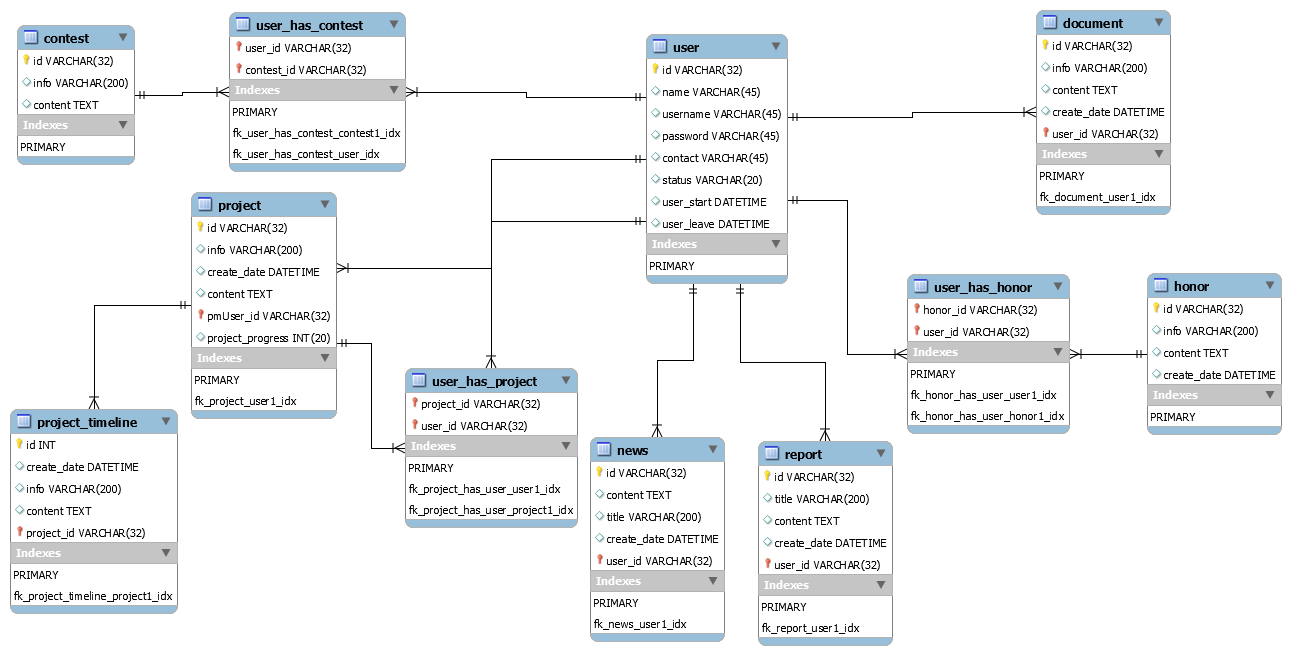
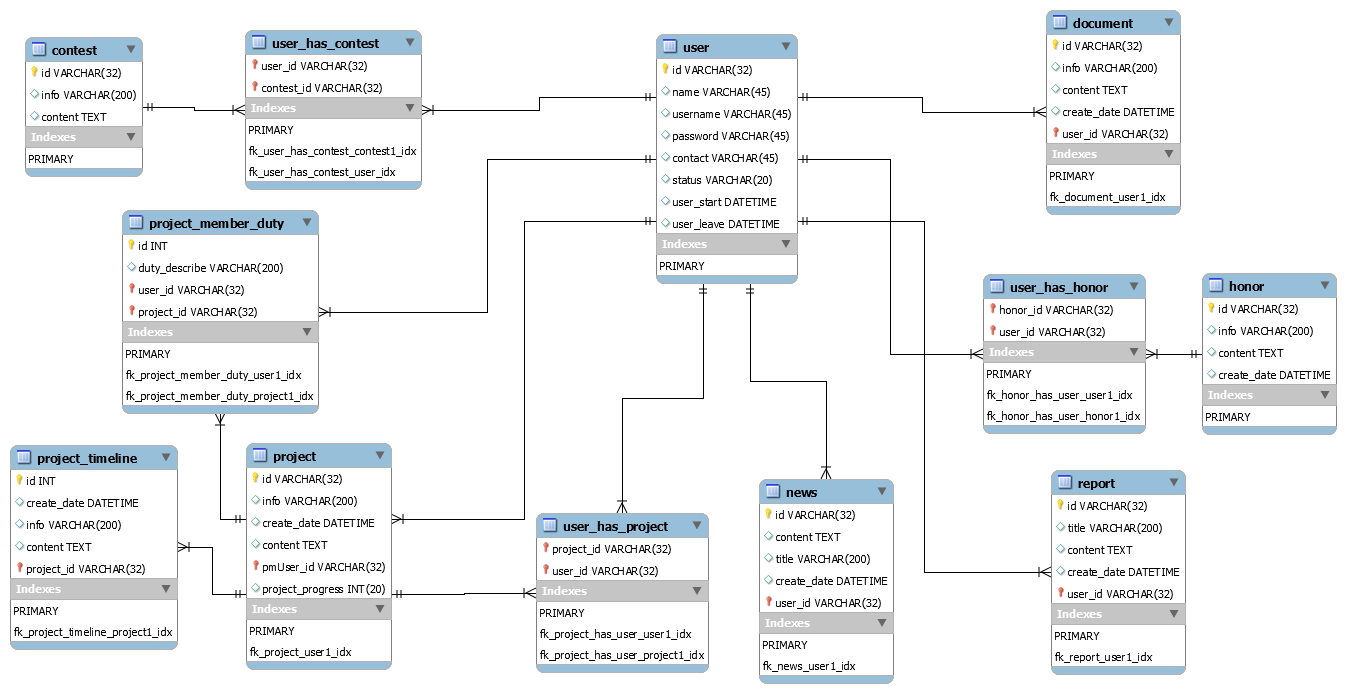
1.增加实体：项目成员责任类。2.初始化数据设计。3.发现fastjson对map的不足。

diff --git a/test/org/mrhu/smartlab/util/HibernateUtilTest.java b/test/org/mrhu/smartlab/util/HibernateUtilTest.java
@@ -4,10 +4,7 @@ import org.hibernate.Query;
 import org.hibernate.Session;
 import org.hibernate.SessionFactory;
 import org.junit.Test;
-import org.junit.Before; 
-import org.junit.After;
 import org.mrhu.smartlab.model.*;
-import org.mrhu.smartlab.util.HibernateUtil;
 
 import java.util.Date;
 import java.util.HashSet;
@@ -65,19 +62,19 @@ public class HibernateUtilTest {
         session.beginTransaction();
 
         User user = new User();
-        user.setName("小明");
+        user.setName("lisi");
         user.setContact("23");
         user.setStatus(Status.ADMINISTRATOR);
-        user.setUsername("xiaoming");
+        user.setUsername("lisi");
         user.setPassword("123");
         user.setStart(new Date());
         session.save(user);
 
         User user2 = new User();
-        user2.setName("lisi");
+        user2.setName("小明");
         user2.setContact("47823974912");
         user2.setStatus(Status.USER);
-        user2.setUsername("lisi");
+        user2.setUsername("xiaoming");
         user2.setPassword("123");
         user2.setStart(new Date());
         session.save(user2);
@@ -107,6 +104,23 @@ public class HibernateUtilTest {
         project.setProgress(20);
         session.save(project);
 
+        Project project2 = new Project();
+        project2.setContent("这是一个新项目，开发实验室综合管理平台的项目的扩展");
+        project2.setInfo("这是一个新项目");
+        project2.setCreateDate(new Date());
+        Query query2 = session.createQuery("from User user where user.username = 'zhangsan'");
+        List<User> userList2 = query2.list();
+        User user3 = userList2.get(0);
+        System.out.println(user3.getId());
+        project2.setPmUser(user);
+        users.add(user3);
+        project2.setUsers(users);
+        project2.setProgress(20);
+        session.save(project2);
+
+        session.getTransaction().commit();
+        session.beginTransaction();
+
         News news = new News();
         news.setContent("这是一个新闻，关于最新项目进展的新闻");
         news.setCreateDate(new Date());
@@ -121,6 +135,7 @@ public class HibernateUtilTest {
         report.setUser(user2);
         session.save(report);
 
+
         Honor honor = new Honor();
         honor.setContent("这是一个荣誉，全部人的荣誉");
         honor.setCreateDate(new Date());
@@ -134,6 +149,53 @@ public class HibernateUtilTest {
         document.setInfo("文档");
         document.setUser(user);
         session.save(document);
+
+        ProjectTimeline projectTimeline = new ProjectTimeline();
+        projectTimeline.setInfo("begin");
+        projectTimeline.setContent("开始了工程，就不要轻易停下来");
+        projectTimeline.setCreateDate(new Date());
+        project = (Project) session.createQuery("from Project p where p.id = :pid")
+                .setParameter("pid", project.getId())
+                .list()
+                .get(0);
+        System.out.println(project.getId());
+        System.out.println(project2.getId());
+        projectTimeline.setProject(project);
+        session.save(projectTimeline);
+
+        ProjectTimeline projectTimeline2 = new ProjectTimeline();
+        projectTimeline2.setInfo("begin");
+        projectTimeline2.setContent("开始了工程，就不要轻易停下来");
+        projectTimeline2.setCreateDate(new Date());
+        project2 = session.get(Project.class, project2.getId());
+        projectTimeline2.setProject(project2);
+        session.save(projectTimeline2);
+
+        ProjectTimeline projectTimeline1 = new ProjectTimeline();
+        projectTimeline1.setProject(project);
+        projectTimeline1.setCreateDate(new Date());
+        projectTimeline1.setContent("工程结束，下次再会");
+        projectTimeline1.setInfo("end");
+        session.save(projectTimeline1);
+
+        ProjectTimeline projectTimeline3 = new ProjectTimeline();
+        projectTimeline3.setProject(project2);
+        projectTimeline3.setCreateDate(new Date());
+        projectTimeline3.setContent("工程结束，下次再会");
+        projectTimeline3.setInfo("end");
+        session.save(projectTimeline3);
+
+        ProjectMemberDuty projectMemberDuty = new ProjectMemberDuty();
+        projectMemberDuty.setDescribe("项目经理");
+        projectMemberDuty.setUser(user);
+        projectMemberDuty.setProject(project);
+        session.save(projectMemberDuty);
+
+        ProjectMemberDuty projectMemberDuty1 = new ProjectMemberDuty();
+        projectMemberDuty1.setProject(project);
+        projectMemberDuty1.setUser(user2);
+        projectMemberDuty1.setDescribe("开发");
+        session.save(projectMemberDuty1);
 
         session.getTransaction().commit();
         session.close();

diff --git a/src/org/mrhu/smartlab/dao/impl/ProjectMemberDaoImpl.java b/src/org/mrhu/smartlab/dao/impl/ProjectMemberDaoImpl.java
@@ -1,0 +1,49 @@
+package org.mrhu.smartlab.dao.impl;
+
+import org.mrhu.smartlab.dao.ProjectMemberDao;
+import org.mrhu.smartlab.model.Project;
+import org.mrhu.smartlab.model.ProjectMemberDuty;
+import org.mrhu.smartlab.model.User;
+import org.springframework.orm.hibernate5.HibernateTemplate;
+import org.springframework.stereotype.Component;
+
+import javax.annotation.Resource;
+import java.util.HashMap;
+import java.util.List;
+import java.util.Map;
+import java.util.Set;
+
+@Component("projectMemberDao")
+public class ProjectMemberDaoImpl implements ProjectMemberDao {
+
+    private HibernateTemplate hibernateTemplate;
+
+    public HibernateTemplate getHibernateTemplate() {
+        return hibernateTemplate;
+    }
+
+    @Resource
+    public void setHibernateTemplate(HibernateTemplate hibernateTemplate) {
+        this.hibernateTemplate = hibernateTemplate;
+    }
+
+    @Override
+    public Map<User, ProjectMemberDuty> getAllMemberAndDuty(Project project) {
+        Project loadProject = hibernateTemplate.get(Project.class, project.getId());
+        List<ProjectMemberDuty> projectMemberDuties = (List<ProjectMemberDuty>) hibernateTemplate
+                .find("from ProjectMemberDuty p where p.project = ?", project);
+        Set<User> users = loadProject.getUsers();
+        Map<User, ProjectMemberDuty> map = new HashMap<>();
+        for(User user : users) {
+            ProjectMemberDuty duty = new ProjectMemberDuty();
+            for(int iterator = 0;iterator < projectMemberDuties.size();iterator++) {
+                if(projectMemberDuties.get(iterator).getUser().getId().equals(user.getId())) {
+                    duty = projectMemberDuties.get(iterator);
+                    break;
+                }
+            }
+            map.put(user, duty);
+        }
+        return map;
+    }
+}

diff --git a/src/org/mrhu/smartlab/action/PullProjectAction.java b/src/org/mrhu/smartlab/action/PullProjectAction.java
@@ -29,18 +29,26 @@ public class PullProjectAction extends ActionSupport implements RequestAware, Se
             Project project = new Project();
             project.setId(projectId);
             Project loadProject = projectService.get(project);
+
+            //页面头部信息栏
             request.put("projectInfo", loadProject.getInfo());
             request.put("projectId", loadProject.getId());
             request.put("projectContent", loadProject.getContent());
+
+            //时间轴信息栏
             request.put("timelines", projectTimeLineService.getAll(project));
             request.put("projectCreateDate", loadProject.getCreateDate());
+
+            //底部成员信息栏
             request.put("members", loadProject.getUsers());
+            request.put("", loadProject);
             if(session.get("status") == Status.ADMINISTRATOR) {
                 return "admin_success";
             } else {
                 return "user_success";
             }
         } catch (Exception e) {
+            e.printStackTrace();
             return ERROR;
         }
     }

diff --git a/src/org/mrhu/smartlab/model/ProjectMemberDuty.java b/src/org/mrhu/smartlab/model/ProjectMemberDuty.java
@@ -1,0 +1,49 @@
+package org.mrhu.smartlab.model;
+
+import javax.persistence.*;
+
+@Entity
+@Table(name = "project_member_duty")
+public class ProjectMemberDuty {
+    private int id;
+    private String describe;
+    private User user;
+    private Project project;
+
+    @Id
+    @GeneratedValue(strategy = GenerationType.IDENTITY)
+    public int getId() {
+        return id;
+    }
+
+    public void setId(int id) {
+        this.id = id;
+    }
+
+    @Column(name = "duty_describe")
+    public String getDescribe() {
+        return describe;
+    }
+
+    public void setDescribe(String describe) {
+        this.describe = describe;
+    }
+
+    @ManyToOne
+    public User getUser() {
+        return user;
+    }
+
+    public void setUser(User user) {
+        this.user = user;
+    }
+
+    @ManyToOne
+    public Project getProject() {
+        return project;
+    }
+
+    public void setProject(Project project) {
+        this.project = project;
+    }
+}

diff --git a/src/org/mrhu/smartlab/dao/ProjectMemberDao.java b/src/org/mrhu/smartlab/dao/ProjectMemberDao.java
@@ -1,0 +1,12 @@
+package org.mrhu.smartlab.dao;
+
+import org.mrhu.smartlab.model.Project;
+import org.mrhu.smartlab.model.ProjectMemberDuty;
+import org.mrhu.smartlab.model.User;
+
+import java.util.Map;
+
+public interface ProjectMemberDao {
+
+    Map<User, ProjectMemberDuty> getAllMemberAndDuty(Project project);
+}

diff --git a/src/org/mrhu/smartlab/model/Project.java b/src/org/mrhu/smartlab/model/Project.java
@@ -53,7 +53,7 @@ public class Project {
         this.createDate = createDate;
     }
 
-    @ManyToMany
+    @ManyToMany(fetch = FetchType.EAGER)
     @JoinTable(name="user_has_project",
         joinColumns = {@JoinColumn(name="project_id")},
         inverseJoinColumns = {@JoinColumn(name = "user_id")}
